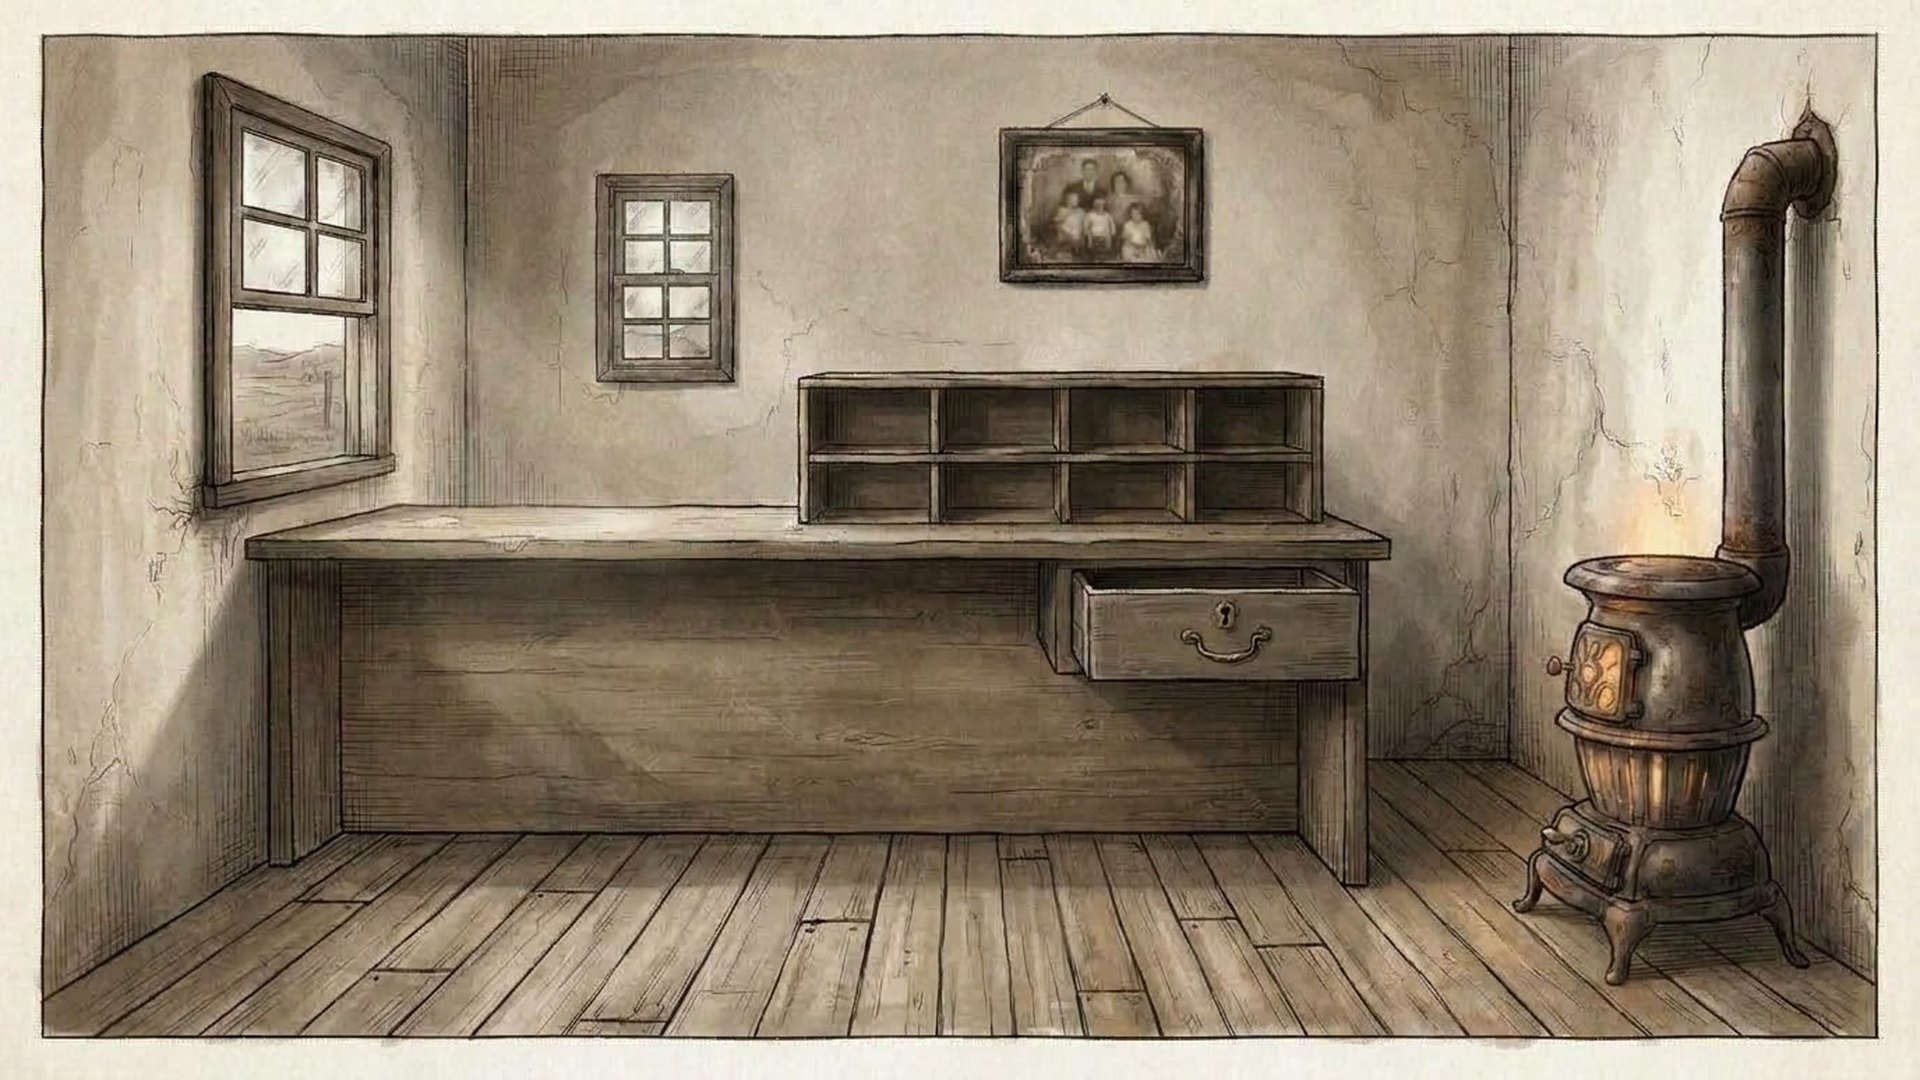
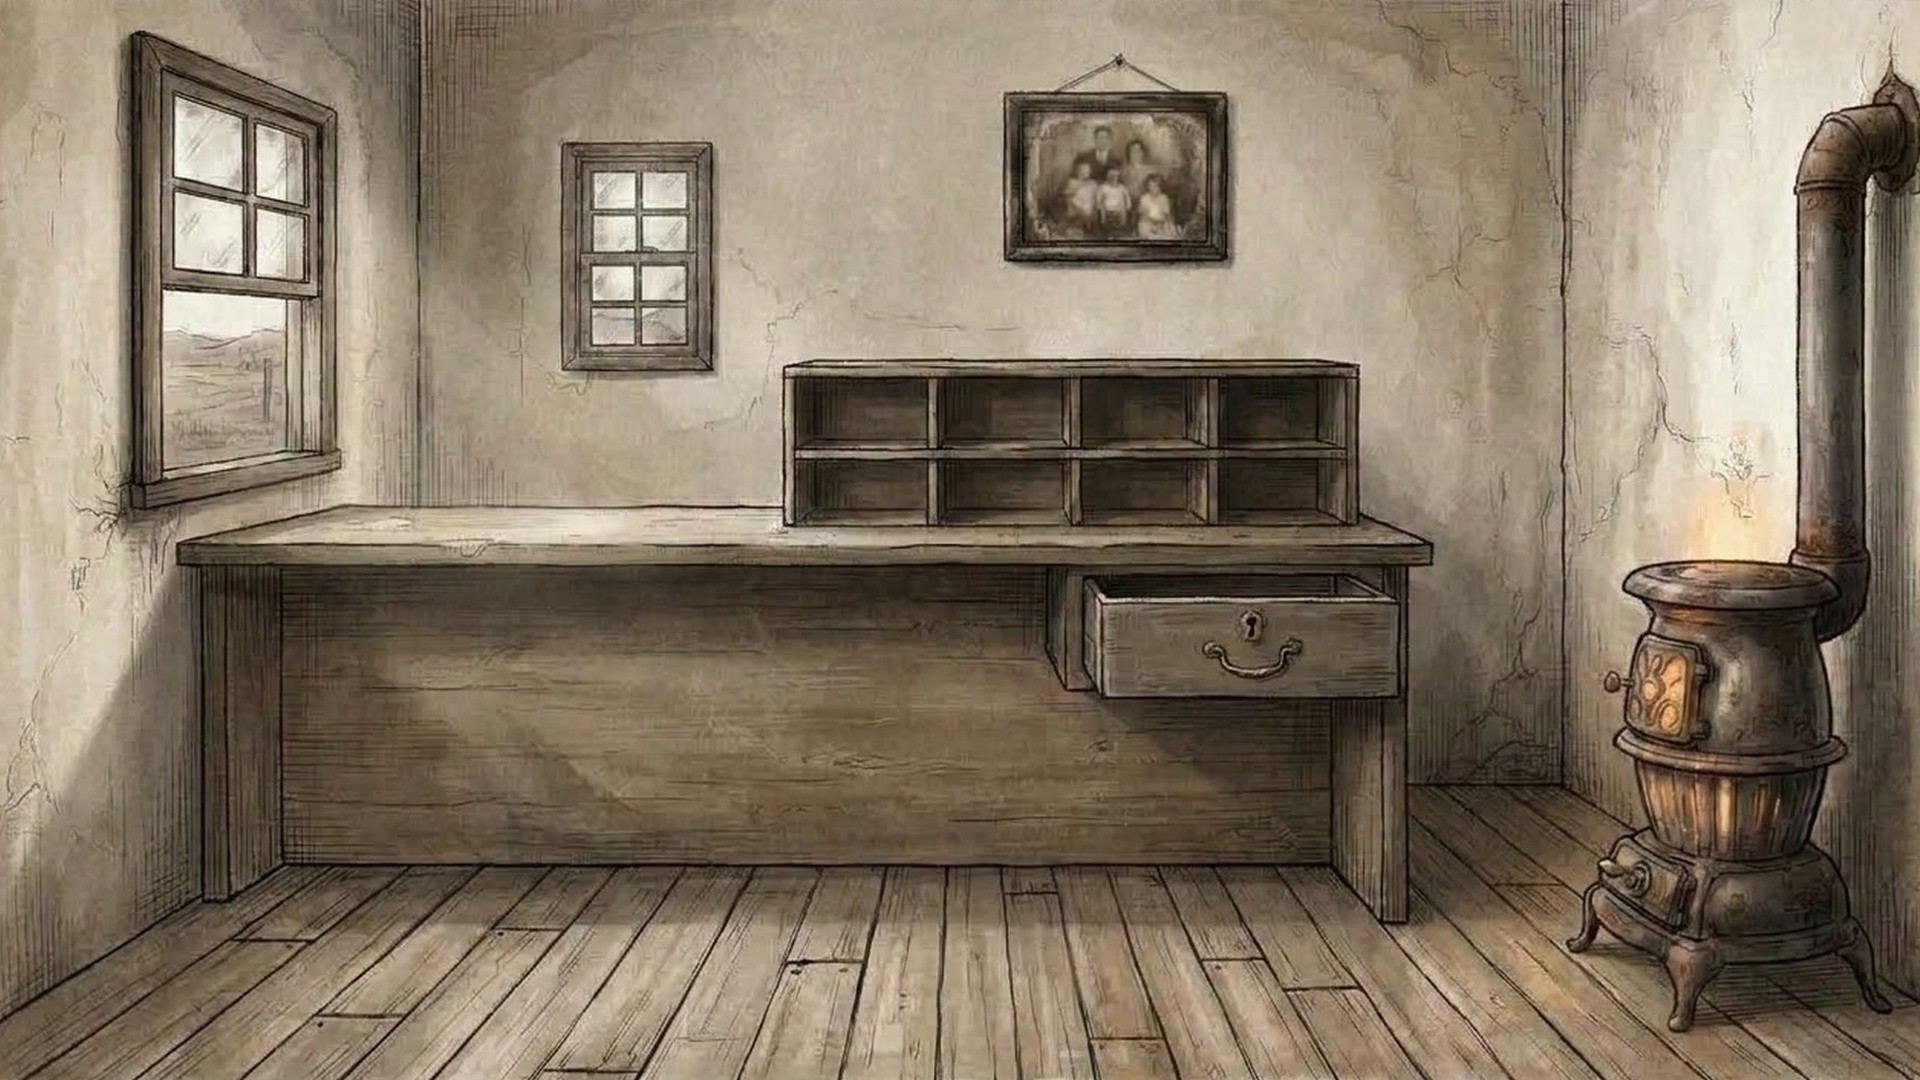
v0.3.1: sem moldura nos objetos da cena, fita da coroa em curva, cenas sem margem de papel
Claude-Session: https://claude.ai/code/session_016wJzKo3UGQUfjaTdhBeZq7

diff --git a/README.md b/README.md
@@ -8,6 +8,8 @@ Protótipo jogável do **prólogo** e do **Capítulo 1** de BENTEVI, um jogo de 
 
 ## O que tem nesta versão (0.3)
 
+- 0.3.1: sem moldura nos objetos tocáveis da cena; texto da fita da coroa seguindo a curva; margens de papel cortadas das cenas para todas terem o mesmo enquadramento.
+
 - Arte final do Capítulo 1 (salão, relógios e espelho em 1924 e 1899), zooms da coroa, do caixão e do pêndulo, carruagem e ícones de todos os itens.
 - Áreas de toque refeitas sobre a arte nova; parede com cinco relógios (o quinto, "L.").
 
